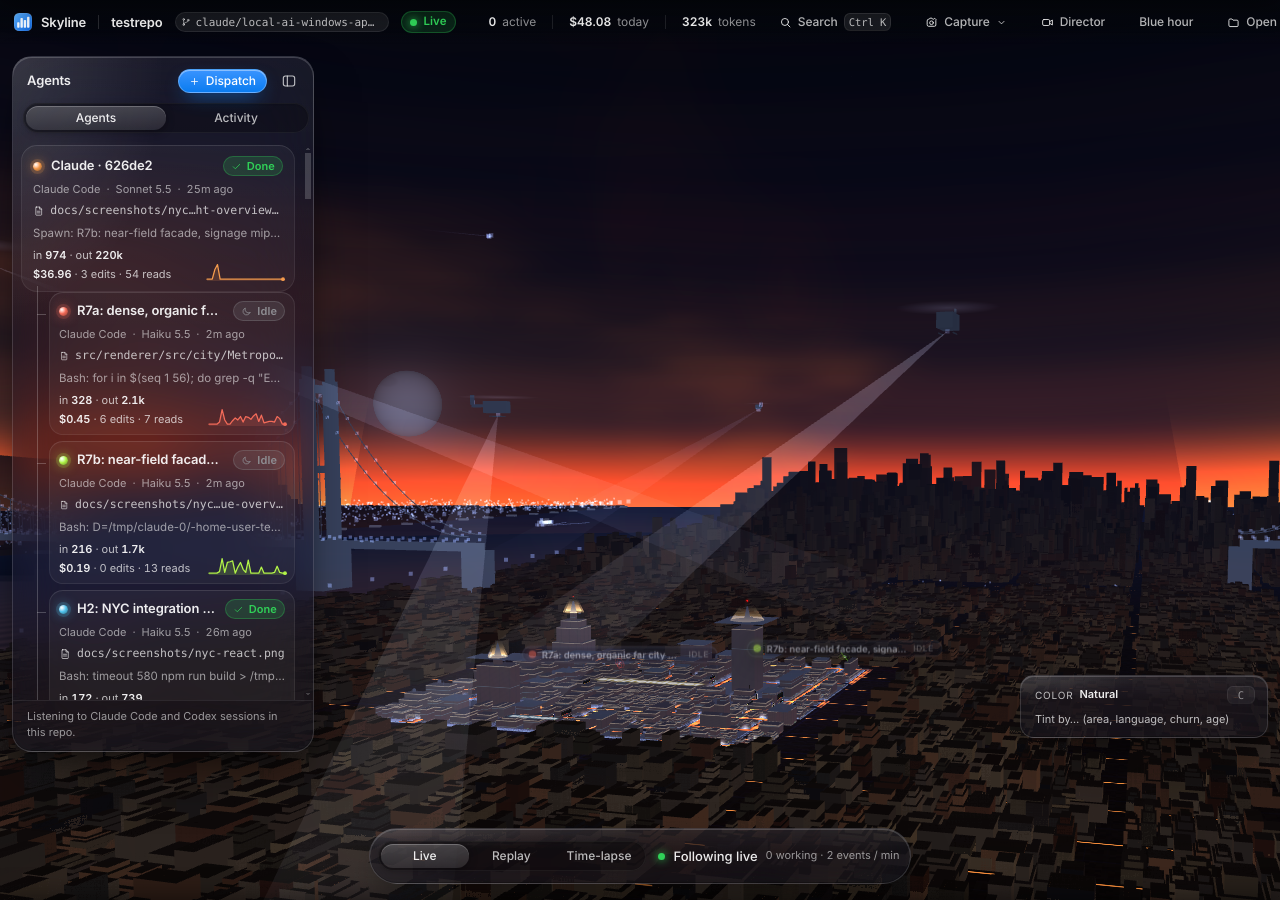
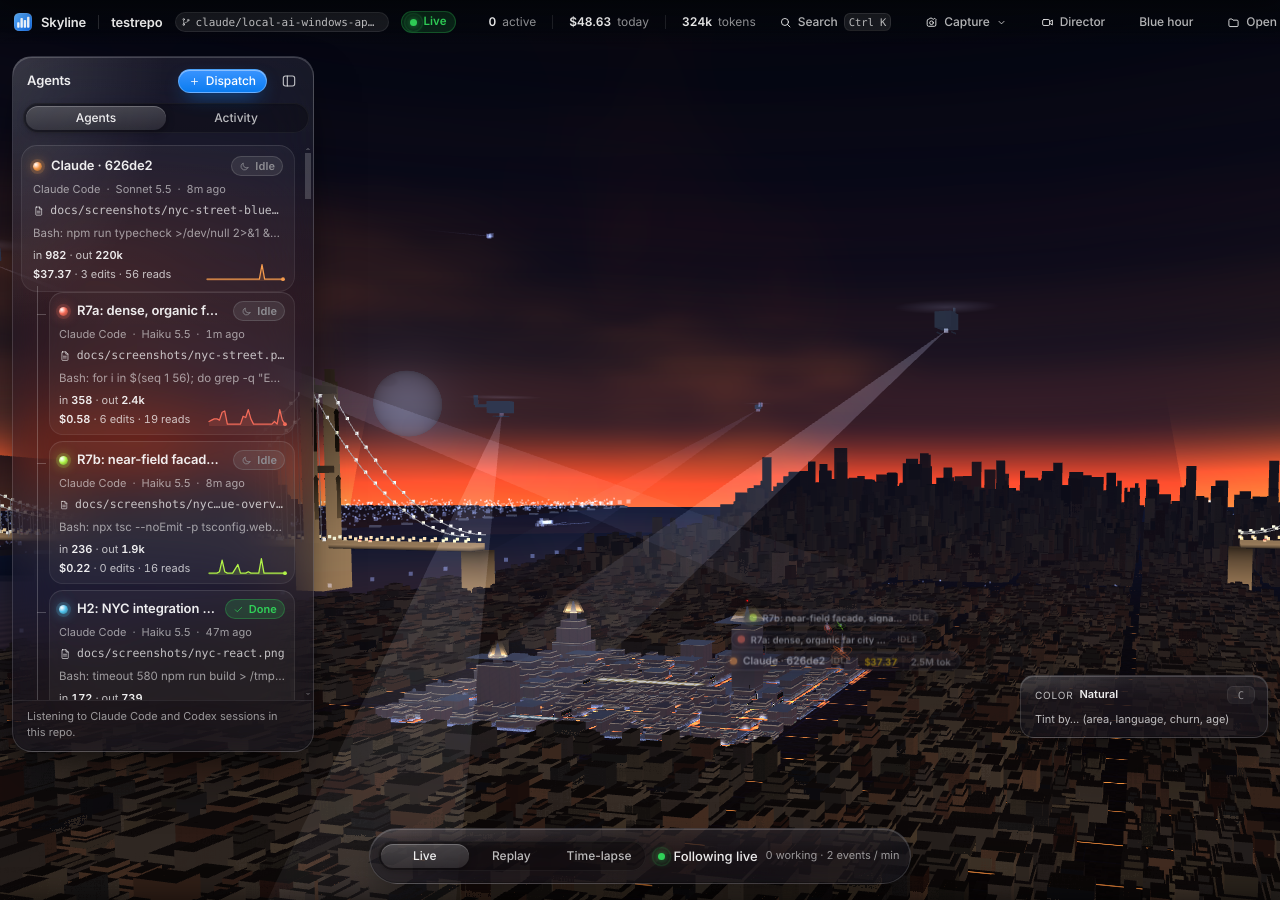
Dense organic metropolis hugging the repo, stone-tower suspension bridge, calmer water, new screenshots
Claude-Session: https://claude.ai/code/session_01L1TEW9iMr6nvGwNt7qQcrD

diff --git a/src/renderer/src/city/Bridges.tsx b/src/renderer/src/city/Bridges.tsx
@@ -17,7 +17,7 @@ import { BRIDGES, type BridgeSpec } from './metro'
 
 const SUN = [0.4, 0.8, 0.3] as const
 /** Dark warm stone (brownstone and granite at night), not blue. */
-const STONE = new Color('#4b3c2f')
+const STONE = new Color('#33281f')
 const STEEL = new Color('#1d1d22')
 const ARCH = new Color('#0a0705')
 const UPLIGHT = [1.0, 0.62, 0.3] as const
@@ -74,7 +74,7 @@ function addUplight(g: BufferGeometry, b: BridgeSpec): void {
     const y = pos.getY(i)
     const fromWater = Math.exp(-(y + 3) / 8)
     const fromDeck = y >= b.deckY ? Math.exp(-(y - b.deckY) / 14) : 0
-    const k = 0.42 * Math.max(fromWater, fromDeck)
+    const k = 0.3 * Math.max(fromWater, fromDeck)
     col.setXYZ(i, col.getX(i) + UPLIGHT[0] * k, col.getY(i) + UPLIGHT[1] * k, col.getZ(i) + UPLIGHT[2] * k)
   }
   col.needsUpdate = true

diff --git a/src/renderer/src/city/Metropolis.tsx b/src/renderer/src/city/Metropolis.tsx
@@ -441,7 +441,7 @@ export function Metropolis() {
   useEffect(() => {
     // The far average of the windows is the warm carpet of light: stronger at night, moderate at blue hour.
     facade.uniforms.uNight!.value = night ? 1.6 : 1.0
-    facade.uniforms.uWinGain!.value = night ? 2.8 : 1.7
+    facade.uniforms.uWinGain!.value = night ? 2.6 : 1.15
     lines.mat.uniforms.uNight!.value = night ? 1.6 : 1.0
   }, [night, facade, lines])
 
